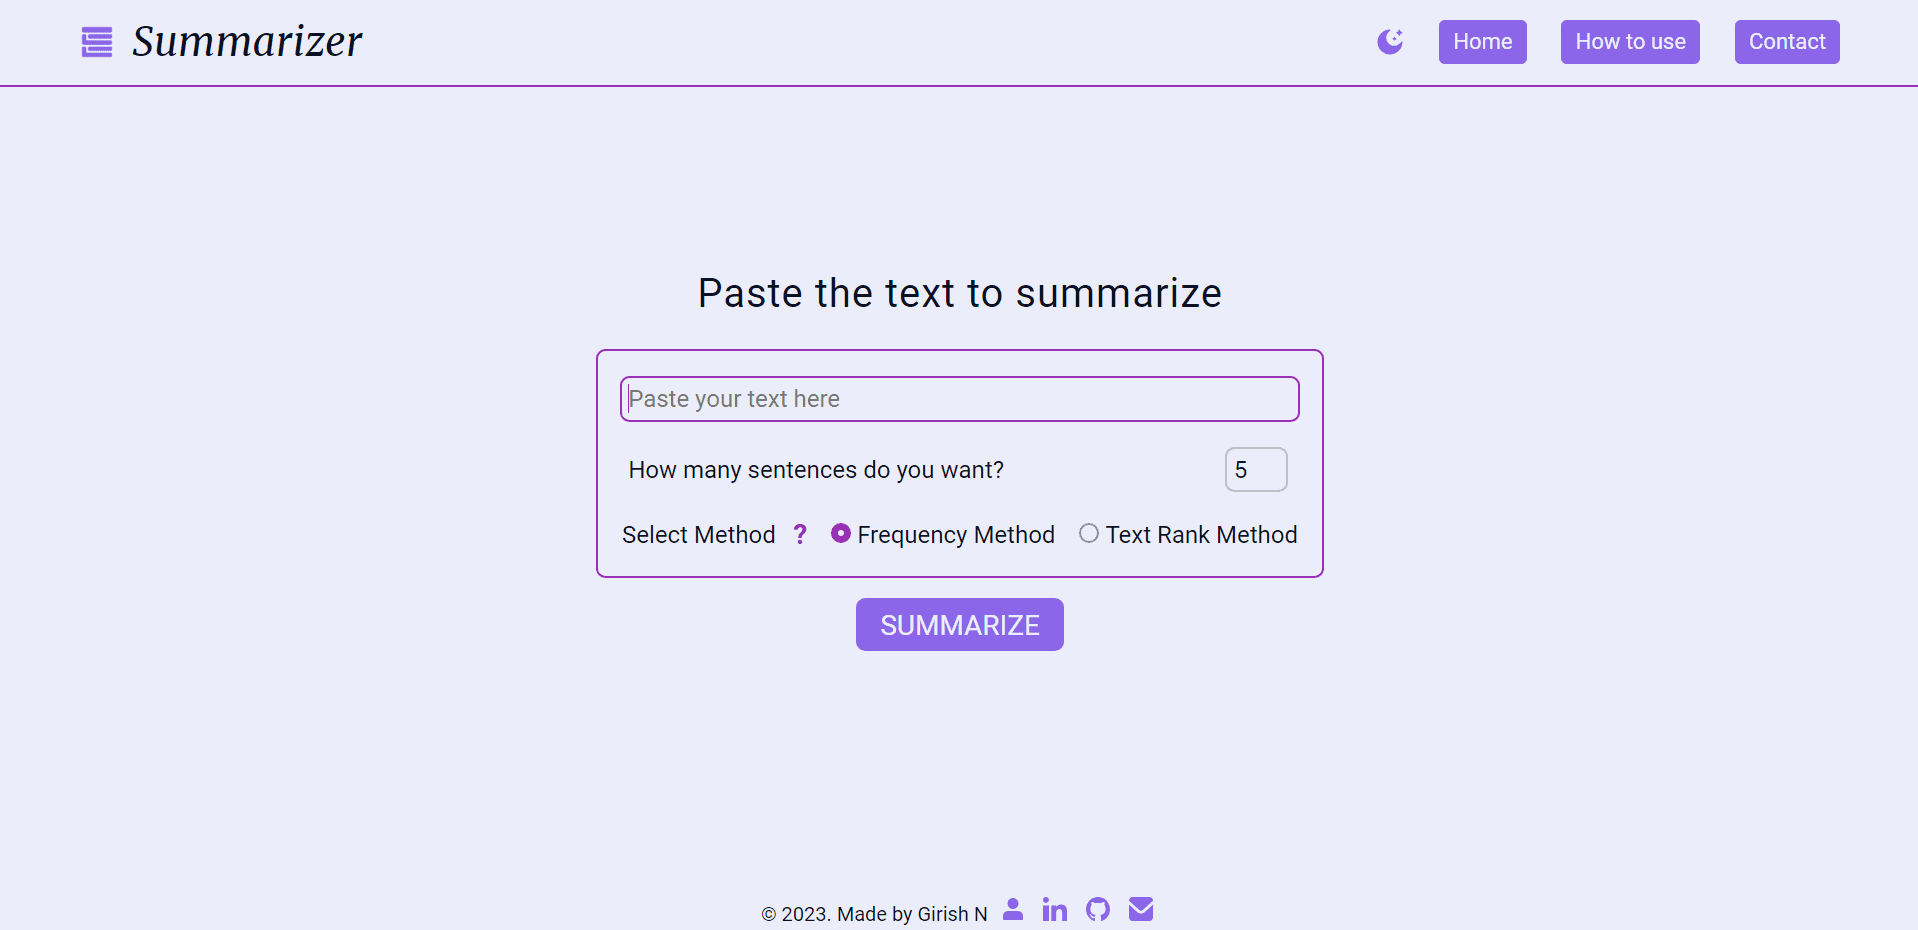
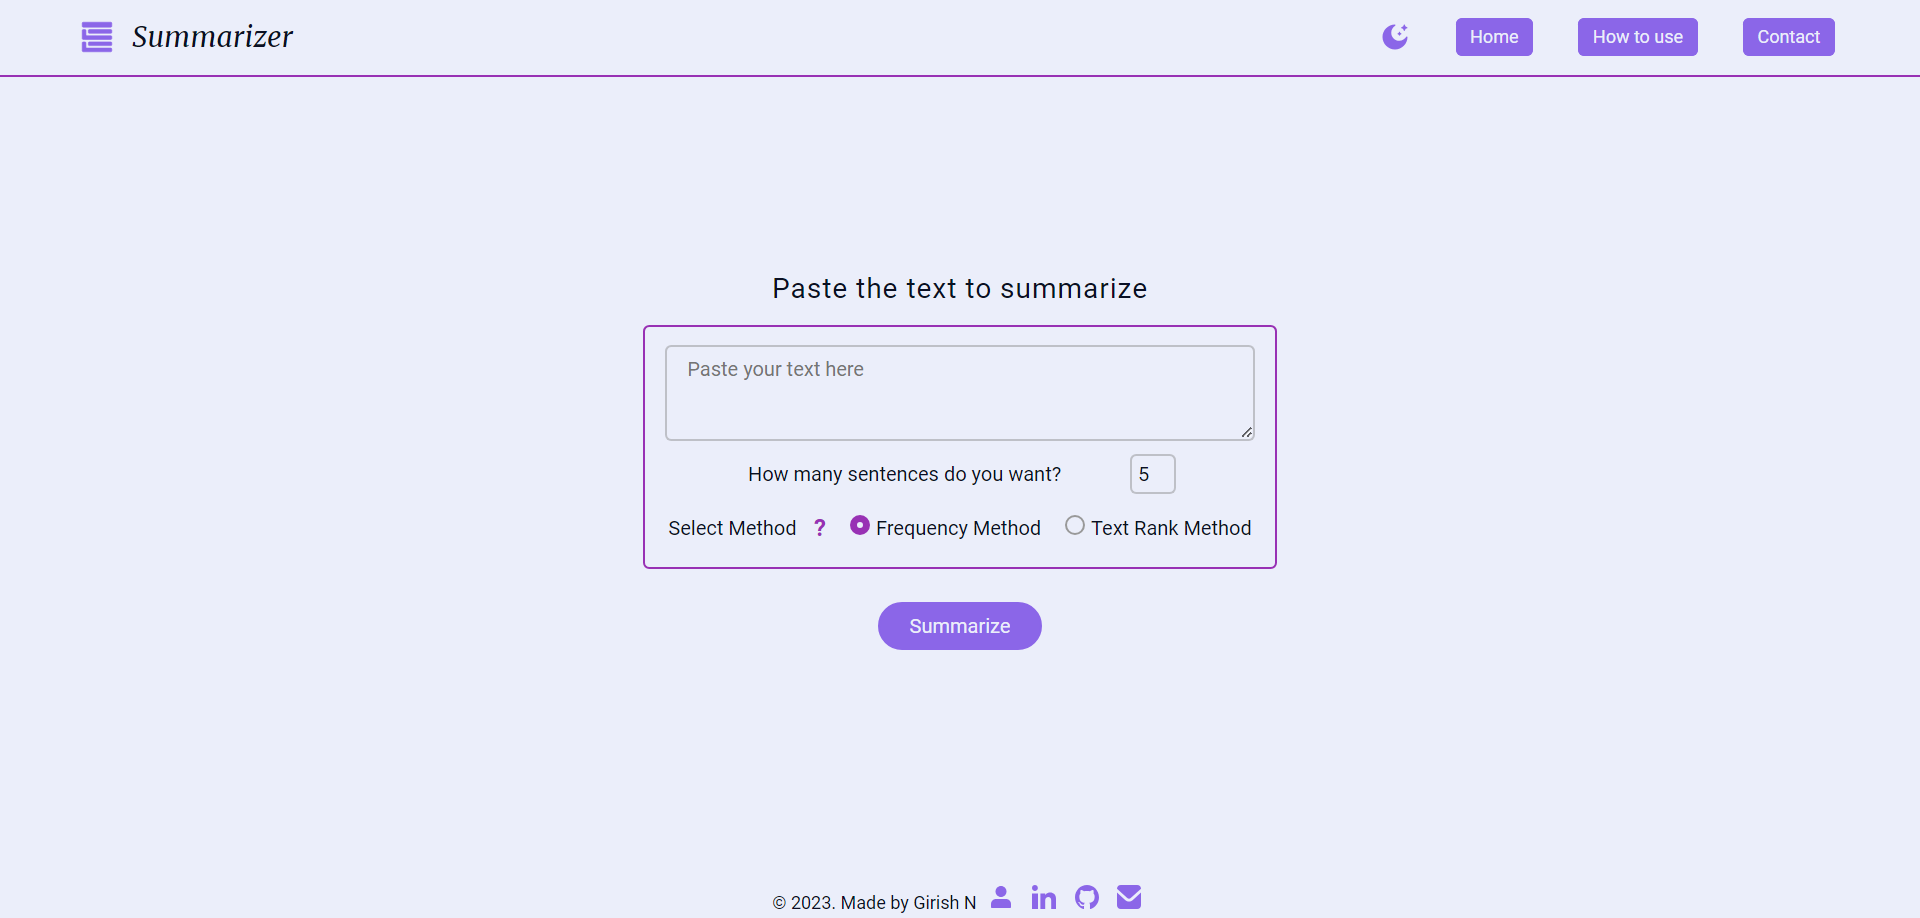
added social links

diff --git a/src/components/Social.jsx b/src/components/Social.jsx
@@ -1,18 +1,28 @@
-import github from "../assets/github.svg";
-import mail from "../assets/mail.svg";
-import linkedIn from "../assets/linkedin.svg";
+import githubLogo from "../assets/github.svg";
+import mailLogo from "../assets/mail.svg";
+import linkedInLogo from "../assets/linkedin.svg";
 
 export default function Social() {
+  const gitHub = "https://github.com/girish-n7";
+  const linkedIn = "https://www.linkedin.com/in/girish-n-7075ba1a4";
+  const email = "mailto: ngirish1729@gmail.com";
+
   return (
     <div className="social--container">
-      <img className="social" src={linkedIn} alt="linkedIn"></img>
-      <img
-        className="social"
-        src={github}
-        alt="github"
-        style={{ height: "1.2rem" }}
-      ></img>
-      <img className="social" src={mail} alt="mail"></img>
+      <a href={linkedIn} title="linkedIn">
+        <img className="social" src={linkedInLogo} alt="linkedIn"></img>
+      </a>
+      <a href={gitHub} title="github">
+        <img
+          className="social"
+          src={githubLogo}
+          alt="github"
+          style={{ height: "1.2rem" }}
+        ></img>
+      </a>
+      <a href={email} title="e-mail">
+        <img className="social" src={mailLogo} alt="mail"></img>
+      </a>
     </div>
   );
 }

diff --git a/src/components/Contact.jsx b/src/components/Contact.jsx
@@ -2,7 +2,7 @@ import api from "../data/contactAPI.json";
 
 export default function Contact() {
   return (
-    // basic inputs and form with POST method calling the personal conatctAPI
+    // basic inputs and form with POST method calling the personal contactAPI
 
     <form action={`${api[0].url}`} id="contact--form" method="POST">
       <div className="contact--container">

diff --git a/index.html b/index.html
@@ -2,7 +2,10 @@
 <html lang="en">
   <head>
     <meta charset="UTF-8" />
+
+    <!-- favicon -->
     <link rel="icon" type="image/svg+xml" href="./src/assets/logo.png" />
+
     <meta name="viewport" content="width=device-width, initial-scale=1.0" />
     <title>Girish_N</title>
 
